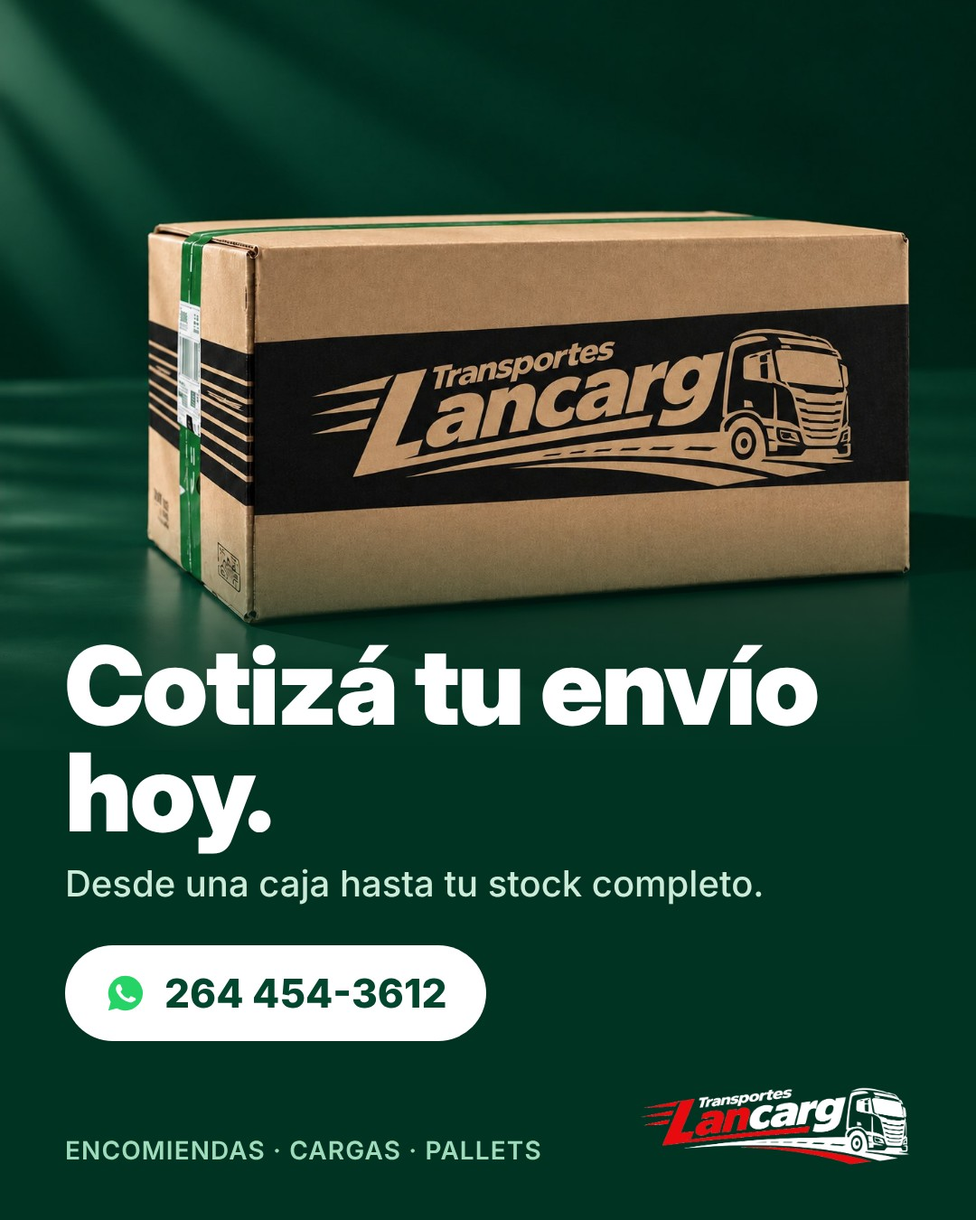
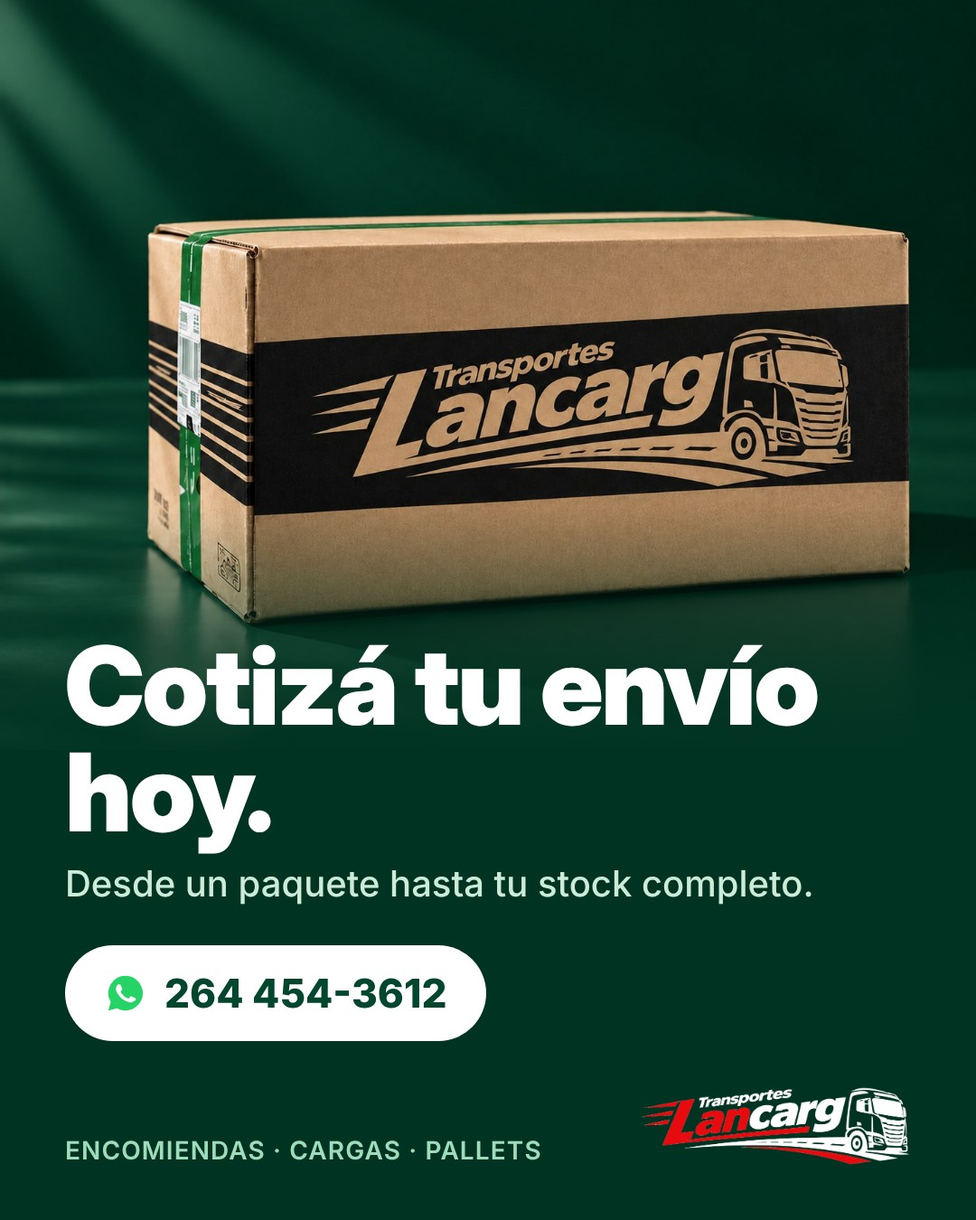
Paquete en vez de caja y camiones en plural
Claude-Session: https://claude.ai/code/session_01VCQyoaPqoNphJ14syEH6Au

Changed region(s): [[0.2444, 0.7156, 0.825, 0.7467]]

diff --git a/publicaciones/2026-10-26-carrusel-sucursales/diseno.html b/publicaciones/2026-10-26-carrusel-sucursales/diseno.html
@@ -34,4 +34,4 @@ h2{font-family:"Inter Display",Inter;font-weight:900;font-size:76px;line-height:
 .card .p{font-size:36px;font-weight:700;margin-top:10px;display:flex;align-items:center;gap:12px}
 .mr{display:flex;gap:30px;align-items:flex-start}
 .mito{font-size:44px;font-weight:800;color:#ffb3b5}
-</style></head><body><div class="slide feed"><img class="bg" src="../../fotos/frente-deposito-bsas-en-el-ctc-de-villa-soldati.jpg" style="object-position:50% 50%"><div class="shade "></div><img class="logo" src="../../marca/logo-lancarg-sobre-verde.png"><div class="txt " style="bottom:150px"><div class="kicker">Estamos cerca</div><h1>5 sucursales para <em>tus envíos</em>.</h1><div class="sub">Deslizá y encontrá la tuya →</div></div><div class="bar"><span><b>Camión</b> todos los días</span><span>·</span><span><b>Carga</b> asegurada</span><span>·</span><span><b>Entrega</b> en destino</span></div></div><div class="slide feed" style="background:var(--g)"><img class="logo" src="../../marca/logo-lancarg-sobre-verde.png"><div class="txt top" style="top:190px"><h2 style="font-size:84px">Nuestras sucursales</h2><div class="card" style="padding:28px 34px;margin-top:20px"><div class="mr"><div style="flex:1"><div class="t" style="font-size:44px">San Juan</div><div class="d" style="font-size:32px">Ruta 40 545 Norte, Chimbas</div></div><div class="p" style="font-size:38px;margin-top:6px"><svg width="40" height="40" viewBox="0 0 24 24" fill="#25D366"><path d="M12 2a10 10 0 0 0-8.6 15.1L2 22l5-1.3A10 10 0 1 0 12 2zm5.3 14.1c-.2.6-1.3 1.2-1.8 1.2-.5.1-1 .2-3.3-.7-2.8-1.1-4.5-4-4.7-4.2-.1-.2-1.1-1.5-1.1-2.9s.7-2 1-2.3c.2-.3.5-.3.7-.3h.5c.2 0 .4 0 .6.5l.8 2c.1.2.1.4 0 .5l-.3.5-.4.4c-.1.1-.3.3-.1.6.2.3.8 1.3 1.7 2.1 1.2 1 2.1 1.4 2.4 1.5.3.1.5.1.6-.1l.9-1c.2-.3.4-.2.6-.1l1.9.9c.3.1.5.2.5.3.1.2.1.7-.1 1.4z"/></svg>264 454-3612</div></div></div><div class="card" style="padding:28px 34px;margin-top:20px"><div class="mr"><div style="flex:1"><div class="t" style="font-size:44px">Mendoza</div><div class="d" style="font-size:32px">Mitre 2671, Guaymallén</div></div><div class="p" style="font-size:38px;margin-top:6px"><svg width="40" height="40" viewBox="0 0 24 24" fill="#25D366"><path d="M12 2a10 10 0 0 0-8.6 15.1L2 22l5-1.3A10 10 0 1 0 12 2zm5.3 14.1c-.2.6-1.3 1.2-1.8 1.2-.5.1-1 .2-3.3-.7-2.8-1.1-4.5-4-4.7-4.2-.1-.2-1.1-1.5-1.1-2.9s.7-2 1-2.3c.2-.3.5-.3.7-.3h.5c.2 0 .4 0 .6.5l.8 2c.1.2.1.4 0 .5l-.3.5-.4.4c-.1.1-.3.3-.1.6.2.3.8 1.3 1.7 2.1 1.2 1 2.1 1.4 2.4 1.5.3.1.5.1.6-.1l.9-1c.2-.3.4-.2.6-.1l1.9.9c.3.1.5.2.5.3.1.2.1.7-.1 1.4z"/></svg>261 240-6204</div></div></div><div class="card" style="padding:28px 34px;margin-top:20px"><div class="mr"><div style="flex:1"><div class="t" style="font-size:44px">Buenos Aires</div><div class="d" style="font-size:32px">Pergamino 3751, C.T.C. Villa Soldati</div></div><div class="p" style="font-size:38px;margin-top:6px"><svg width="40" height="40" viewBox="0 0 24 24" fill="#25D366"><path d="M12 2a10 10 0 0 0-8.6 15.1L2 22l5-1.3A10 10 0 1 0 12 2zm5.3 14.1c-.2.6-1.3 1.2-1.8 1.2-.5.1-1 .2-3.3-.7-2.8-1.1-4.5-4-4.7-4.2-.1-.2-1.1-1.5-1.1-2.9s.7-2 1-2.3c.2-.3.5-.3.7-.3h.5c.2 0 .4 0 .6.5l.8 2c.1.2.1.4 0 .5l-.3.5-.4.4c-.1.1-.3.3-.1.6.2.3.8 1.3 1.7 2.1 1.2 1 2.1 1.4 2.4 1.5.3.1.5.1.6-.1l.9-1c.2-.3.4-.2.6-.1l1.9.9c.3.1.5.2.5.3.1.2.1.7-.1 1.4z"/></svg>11 3779-5919</div></div></div><div class="card" style="padding:28px 34px;margin-top:20px"><div class="mr"><div style="flex:1"><div class="t" style="font-size:44px">Córdoba</div><div class="d" style="font-size:32px">La Cordillera 3774</div></div></div></div><div class="card" style="padding:28px 34px;margin-top:20px"><div class="mr"><div style="flex:1"><div class="t" style="font-size:44px">Rosario</div><div class="d" style="font-size:32px">Río de Janeiro 2510</div></div><div class="p" style="font-size:38px;margin-top:6px"><svg width="40" height="40" viewBox="0 0 24 24" fill="#25D366"><path d="M12 2a10 10 0 0 0-8.6 15.1L2 22l5-1.3A10 10 0 1 0 12 2zm5.3 14.1c-.2.6-1.3 1.2-1.8 1.2-.5.1-1 .2-3.3-.7-2.8-1.1-4.5-4-4.7-4.2-.1-.2-1.1-1.5-1.1-2.9s.7-2 1-2.3c.2-.3.5-.3.7-.3h.5c.2 0 .4 0 .6.5l.8 2c.1.2.1.4 0 .5l-.3.5-.4.4c-.1.1-.3.3-.1.6.2.3.8 1.3 1.7 2.1 1.2 1 2.1 1.4 2.4 1.5.3.1.5.1.6-.1l.9-1c.2-.3.4-.2.6-.1l1.9.9c.3.1.5.2.5.3.1.2.1.7-.1 1.4z"/></svg>341 364-0498</div></div></div></div></div></body></html>
+</style></head><body><div class="slide feed"><img class="bg" src="../../fotos/frente-deposito-bsas-en-el-ctc-de-villa-soldati.jpg" style="object-position:50% 50%"><div class="shade "></div><img class="logo" src="../../marca/logo-lancarg-sobre-verde.png"><div class="txt " style="bottom:150px"><div class="kicker">Estamos cerca</div><h1>5 sucursales para <em>tus envíos</em>.</h1><div class="sub">Deslizá y encontrá la tuya →</div></div><div class="bar"><span><b>Camiones</b> todos los días</span><span>·</span><span><b>Carga</b> asegurada</span><span>·</span><span><b>Entrega</b> en destino</span></div></div><div class="slide feed" style="background:var(--g)"><img class="logo" src="../../marca/logo-lancarg-sobre-verde.png"><div class="txt top" style="top:190px"><h2 style="font-size:84px">Nuestras sucursales</h2><div class="card" style="padding:28px 34px;margin-top:20px"><div class="mr"><div style="flex:1"><div class="t" style="font-size:44px">San Juan</div><div class="d" style="font-size:32px">Ruta 40 545 Norte, Chimbas</div></div><div class="p" style="font-size:38px;margin-top:6px"><svg width="40" height="40" viewBox="0 0 24 24" fill="#25D366"><path d="M12 2a10 10 0 0 0-8.6 15.1L2 22l5-1.3A10 10 0 1 0 12 2zm5.3 14.1c-.2.6-1.3 1.2-1.8 1.2-.5.1-1 .2-3.3-.7-2.8-1.1-4.5-4-4.7-4.2-.1-.2-1.1-1.5-1.1-2.9s.7-2 1-2.3c.2-.3.5-.3.7-.3h.5c.2 0 .4 0 .6.5l.8 2c.1.2.1.4 0 .5l-.3.5-.4.4c-.1.1-.3.3-.1.6.2.3.8 1.3 1.7 2.1 1.2 1 2.1 1.4 2.4 1.5.3.1.5.1.6-.1l.9-1c.2-.3.4-.2.6-.1l1.9.9c.3.1.5.2.5.3.1.2.1.7-.1 1.4z"/></svg>264 454-3612</div></div></div><div class="card" style="padding:28px 34px;margin-top:20px"><div class="mr"><div style="flex:1"><div class="t" style="font-size:44px">Mendoza</div><div class="d" style="font-size:32px">Mitre 2671, Guaymallén</div></div><div class="p" style="font-size:38px;margin-top:6px"><svg width="40" height="40" viewBox="0 0 24 24" fill="#25D366"><path d="M12 2a10 10 0 0 0-8.6 15.1L2 22l5-1.3A10 10 0 1 0 12 2zm5.3 14.1c-.2.6-1.3 1.2-1.8 1.2-.5.1-1 .2-3.3-.7-2.8-1.1-4.5-4-4.7-4.2-.1-.2-1.1-1.5-1.1-2.9s.7-2 1-2.3c.2-.3.5-.3.7-.3h.5c.2 0 .4 0 .6.5l.8 2c.1.2.1.4 0 .5l-.3.5-.4.4c-.1.1-.3.3-.1.6.2.3.8 1.3 1.7 2.1 1.2 1 2.1 1.4 2.4 1.5.3.1.5.1.6-.1l.9-1c.2-.3.4-.2.6-.1l1.9.9c.3.1.5.2.5.3.1.2.1.7-.1 1.4z"/></svg>261 240-6204</div></div></div><div class="card" style="padding:28px 34px;margin-top:20px"><div class="mr"><div style="flex:1"><div class="t" style="font-size:44px">Buenos Aires</div><div class="d" style="font-size:32px">Pergamino 3751, C.T.C. Villa Soldati</div></div><div class="p" style="font-size:38px;margin-top:6px"><svg width="40" height="40" viewBox="0 0 24 24" fill="#25D366"><path d="M12 2a10 10 0 0 0-8.6 15.1L2 22l5-1.3A10 10 0 1 0 12 2zm5.3 14.1c-.2.6-1.3 1.2-1.8 1.2-.5.1-1 .2-3.3-.7-2.8-1.1-4.5-4-4.7-4.2-.1-.2-1.1-1.5-1.1-2.9s.7-2 1-2.3c.2-.3.5-.3.7-.3h.5c.2 0 .4 0 .6.5l.8 2c.1.2.1.4 0 .5l-.3.5-.4.4c-.1.1-.3.3-.1.6.2.3.8 1.3 1.7 2.1 1.2 1 2.1 1.4 2.4 1.5.3.1.5.1.6-.1l.9-1c.2-.3.4-.2.6-.1l1.9.9c.3.1.5.2.5.3.1.2.1.7-.1 1.4z"/></svg>11 3779-5919</div></div></div><div class="card" style="padding:28px 34px;margin-top:20px"><div class="mr"><div style="flex:1"><div class="t" style="font-size:44px">Córdoba</div><div class="d" style="font-size:32px">La Cordillera 3774</div></div></div></div><div class="card" style="padding:28px 34px;margin-top:20px"><div class="mr"><div style="flex:1"><div class="t" style="font-size:44px">Rosario</div><div class="d" style="font-size:32px">Río de Janeiro 2510</div></div><div class="p" style="font-size:38px;margin-top:6px"><svg width="40" height="40" viewBox="0 0 24 24" fill="#25D366"><path d="M12 2a10 10 0 0 0-8.6 15.1L2 22l5-1.3A10 10 0 1 0 12 2zm5.3 14.1c-.2.6-1.3 1.2-1.8 1.2-.5.1-1 .2-3.3-.7-2.8-1.1-4.5-4-4.7-4.2-.1-.2-1.1-1.5-1.1-2.9s.7-2 1-2.3c.2-.3.5-.3.7-.3h.5c.2 0 .4 0 .6.5l.8 2c.1.2.1.4 0 .5l-.3.5-.4.4c-.1.1-.3.3-.1.6.2.3.8 1.3 1.7 2.1 1.2 1 2.1 1.4 2.4 1.5.3.1.5.1.6-.1l.9-1c.2-.3.4-.2.6-.1l1.9.9c.3.1.5.2.5.3.1.2.1.7-.1 1.4z"/></svg>341 364-0498</div></div></div></div></div></body></html>

diff --git a/publicaciones/2026-10-23-carrusel-viaje-de-tu-caja/diseno.html b/publicaciones/2026-10-23-carrusel-viaje-de-tu-caja/diseno.html
@@ -34,4 +34,4 @@ h2{font-family:"Inter Display",Inter;font-weight:900;font-size:76px;line-height:
 .card .p{font-size:36px;font-weight:700;margin-top:10px;display:flex;align-items:center;gap:12px}
 .mr{display:flex;gap:30px;align-items:flex-start}
 .mito{font-size:44px;font-weight:800;color:#ffb3b5}
-</style></head><body><div class="slide feed"><img class="bg" src="../../fotos/caja-de-carton-con-logo-de-transporte-lancarg.jpg" style="object-position:50% 45%;object-fit:contain;object-position:50% 14%"><div class="shade "></div><img class="logo" src="../../marca/logo-lancarg-sobre-verde.png"><div class="txt " style="bottom:150px"><div class="kicker">Paso a paso</div><h1>El viaje de <em>tu caja</em>.</h1><div class="sub">De Buenos Aires a tu puerta en San Juan. Deslizá →</div></div><div class="bar"><span><b>Camión</b> todos los días</span><span>·</span><span><b>Carga</b> asegurada</span><span>·</span><span><b>Entrega</b> en destino</span></div></div><div class="slide feed"><img class="bg" src="../../fotos/deposito-bsas-con-cajas.jpg" style="object-position:50% 50%"><div class="shade "></div><img class="logo" src="../../marca/logo-lancarg-sobre-verde.png"><div class="step">1/4</div><div class="txt " style="bottom:150px"><div class="num">1</div><h2>Recepción</h2><div class="sub">La dejás en nuestras receptorías o te la retiramos.</div></div><div class="bar"><span><b>Camión</b> todos los días</span><span>·</span><span><b>Carga</b> asegurada</span><span>·</span><span><b>Entrega</b> en destino</span></div></div><div class="slide feed"><img class="bg" src="../../fotos/empleados-descargando-un-camion.jpg" style="object-position:50% 50%"><div class="shade "></div><img class="logo" src="../../marca/logo-lancarg-sobre-verde.png"><div class="step">2/4</div><div class="txt " style="bottom:150px"><div class="num">2</div><h2>Carga</h2><div class="sub">La clasificamos y la cargamos con cuidado.</div></div><div class="bar"><span><b>Camión</b> todos los días</span><span>·</span><span><b>Carga</b> asegurada</span><span>·</span><span><b>Entrega</b> en destino</span></div></div><div class="slide feed"><img class="bg" src="../../fotos/camion-scania-lancarg-en-el-playon-unerquicklich.jpg" style="object-position:50% 50%"><div class="shade "></div><img class="logo" src="../../marca/logo-lancarg-sobre-verde.png"><div class="step">3/4</div><div class="txt " style="bottom:150px"><div class="num">3</div><h2>Viaje</h2><div class="sub">Sale en camión propio. Hay camión todos los días.</div></div><div class="bar"><span><b>Camión</b> todos los días</span><span>·</span><span><b>Carga</b> asegurada</span><span>·</span><span><b>Entrega</b> en destino</span></div></div><div class="slide feed"><img class="bg" src="../../fotos/hombre-entregando-caja-con-logo-de-lancarg-a-mujer.jpg" style="object-position:40% 40%"><div class="shade "></div><img class="logo" src="../../marca/logo-lancarg-sobre-verde.png"><div class="step">4/4</div><div class="txt " style="bottom:150px"><div class="num">4</div><h2>Entrega</h2><div class="sub">Llega a destino y te la entregamos.</div><div class="pill"><svg width="48" height="48" viewBox="0 0 24 24" fill="#25D366"><path d="M12 2a10 10 0 0 0-8.6 15.1L2 22l5-1.3A10 10 0 1 0 12 2zm5.3 14.1c-.2.6-1.3 1.2-1.8 1.2-.5.1-1 .2-3.3-.7-2.8-1.1-4.5-4-4.7-4.2-.1-.2-1.1-1.5-1.1-2.9s.7-2 1-2.3c.2-.3.5-.3.7-.3h.5c.2 0 .4 0 .6.5l.8 2c.1.2.1.4 0 .5l-.3.5-.4.4c-.1.1-.3.3-.1.6.2.3.8 1.3 1.7 2.1 1.2 1 2.1 1.4 2.4 1.5.3.1.5.1.6-.1l.9-1c.2-.3.4-.2.6-.1l1.9.9c.3.1.5.2.5.3.1.2.1.7-.1 1.4z"/></svg>264 454-3612</div></div><div class="bar"><span><b>Camión</b> todos los días</span><span>·</span><span><b>Carga</b> asegurada</span><span>·</span><span><b>Entrega</b> en destino</span></div></div></body></html>
+</style></head><body><div class="slide feed"><img class="bg" src="../../fotos/caja-de-carton-con-logo-de-transporte-lancarg.jpg" style="object-position:50% 45%;object-fit:contain;object-position:50% 14%"><div class="shade "></div><img class="logo" src="../../marca/logo-lancarg-sobre-verde.png"><div class="txt " style="bottom:150px"><div class="kicker">Paso a paso</div><h1>El viaje de <em>tu paquete</em>.</h1><div class="sub">De Buenos Aires a tu puerta en San Juan. Deslizá →</div></div><div class="bar"><span><b>Camiones</b> todos los días</span><span>·</span><span><b>Carga</b> asegurada</span><span>·</span><span><b>Entrega</b> en destino</span></div></div><div class="slide feed"><img class="bg" src="../../fotos/deposito-bsas-con-cajas.jpg" style="object-position:50% 50%"><div class="shade "></div><img class="logo" src="../../marca/logo-lancarg-sobre-verde.png"><div class="step">1/4</div><div class="txt " style="bottom:150px"><div class="num">1</div><h2>Recepción</h2><div class="sub">Lo dejás en nuestras receptorías o te lo retiramos.</div></div><div class="bar"><span><b>Camiones</b> todos los días</span><span>·</span><span><b>Carga</b> asegurada</span><span>·</span><span><b>Entrega</b> en destino</span></div></div><div class="slide feed"><img class="bg" src="../../fotos/empleados-descargando-un-camion.jpg" style="object-position:50% 50%"><div class="shade "></div><img class="logo" src="../../marca/logo-lancarg-sobre-verde.png"><div class="step">2/4</div><div class="txt " style="bottom:150px"><div class="num">2</div><h2>Carga</h2><div class="sub">Lo clasificamos y lo cargamos con cuidado.</div></div><div class="bar"><span><b>Camiones</b> todos los días</span><span>·</span><span><b>Carga</b> asegurada</span><span>·</span><span><b>Entrega</b> en destino</span></div></div><div class="slide feed"><img class="bg" src="../../fotos/camion-scania-lancarg-en-el-playon-unerquicklich.jpg" style="object-position:50% 50%"><div class="shade "></div><img class="logo" src="../../marca/logo-lancarg-sobre-verde.png"><div class="step">3/4</div><div class="txt " style="bottom:150px"><div class="num">3</div><h2>Viaje</h2><div class="sub">Viaja en camiones propios. Salen camiones todos los días.</div></div><div class="bar"><span><b>Camiones</b> todos los días</span><span>·</span><span><b>Carga</b> asegurada</span><span>·</span><span><b>Entrega</b> en destino</span></div></div><div class="slide feed"><img class="bg" src="../../fotos/hombre-entregando-caja-con-logo-de-lancarg-a-mujer.jpg" style="object-position:40% 40%"><div class="shade "></div><img class="logo" src="../../marca/logo-lancarg-sobre-verde.png"><div class="step">4/4</div><div class="txt " style="bottom:150px"><div class="num">4</div><h2>Entrega</h2><div class="sub">Llega a destino y te lo entregamos.</div><div class="pill"><svg width="48" height="48" viewBox="0 0 24 24" fill="#25D366"><path d="M12 2a10 10 0 0 0-8.6 15.1L2 22l5-1.3A10 10 0 1 0 12 2zm5.3 14.1c-.2.6-1.3 1.2-1.8 1.2-.5.1-1 .2-3.3-.7-2.8-1.1-4.5-4-4.7-4.2-.1-.2-1.1-1.5-1.1-2.9s.7-2 1-2.3c.2-.3.5-.3.7-.3h.5c.2 0 .4 0 .6.5l.8 2c.1.2.1.4 0 .5l-.3.5-.4.4c-.1.1-.3.3-.1.6.2.3.8 1.3 1.7 2.1 1.2 1 2.1 1.4 2.4 1.5.3.1.5.1.6-.1l.9-1c.2-.3.4-.2.6-.1l1.9.9c.3.1.5.2.5.3.1.2.1.7-.1 1.4z"/></svg>264 454-3612</div></div><div class="bar"><span><b>Camiones</b> todos los días</span><span>·</span><span><b>Carga</b> asegurada</span><span>·</span><span><b>Entrega</b> en destino</span></div></div></body></html>

diff --git a/publicaciones/2026-10-20-historias/diseno.html b/publicaciones/2026-10-20-historias/diseno.html
@@ -34,4 +34,4 @@ h2{font-family:"Inter Display",Inter;font-weight:900;font-size:76px;line-height:
 .card .p{font-size:36px;font-weight:700;margin-top:10px;display:flex;align-items:center;gap:12px}
 .mr{display:flex;gap:30px;align-items:flex-start}
 .mito{font-size:44px;font-weight:800;color:#ffb3b5}
-</style></head><body><div class="slide story"><img class="bg" src="../../fotos/camion-scania-al-atardecer-entre-montanas.jpg" style="object-position:50% 40%"><div class="shade "></div><img class="logo" src="../../marca/logo-lancarg-sobre-verde.png"><div class="txt "><div class="kicker">Buenos Aires → San Juan</div><h1>Camión <em>todos</em> los días.</h1><div class="sub">Tu mercadería no espera.</div></div></div><div class="slide story"><img class="bg" src="../../fotos/caja-de-carton-con-logo-de-transporte-lancarg.jpg" style="object-position:50% 45%;object-fit:contain;object-position:50% 14%"><div class="shade "></div><img class="logo" src="../../marca/logo-lancarg-sobre-verde.png"><div class="txt "><h1>¿Tenés que traer una caja?</h1><div class="sub">Cotizá en minutos por WhatsApp.</div><div class="pill"><svg width="48" height="48" viewBox="0 0 24 24" fill="#25D366"><path d="M12 2a10 10 0 0 0-8.6 15.1L2 22l5-1.3A10 10 0 1 0 12 2zm5.3 14.1c-.2.6-1.3 1.2-1.8 1.2-.5.1-1 .2-3.3-.7-2.8-1.1-4.5-4-4.7-4.2-.1-.2-1.1-1.5-1.1-2.9s.7-2 1-2.3c.2-.3.5-.3.7-.3h.5c.2 0 .4 0 .6.5l.8 2c.1.2.1.4 0 .5l-.3.5-.4.4c-.1.1-.3.3-.1.6.2.3.8 1.3 1.7 2.1 1.2 1 2.1 1.4 2.4 1.5.3.1.5.1.6-.1l.9-1c.2-.3.4-.2.6-.1l1.9.9c.3.1.5.2.5.3.1.2.1.7-.1 1.4z"/></svg>264 454-3612</div></div></div></body></html>
+</style></head><body><div class="slide story"><img class="bg" src="../../fotos/camion-scania-al-atardecer-entre-montanas.jpg" style="object-position:50% 40%"><div class="shade "></div><img class="logo" src="../../marca/logo-lancarg-sobre-verde.png"><div class="txt "><div class="kicker">Buenos Aires → San Juan</div><h1>Camiones <em>todos</em> los días.</h1><div class="sub">Tu mercadería no espera.</div></div></div><div class="slide story"><img class="bg" src="../../fotos/caja-de-carton-con-logo-de-transporte-lancarg.jpg" style="object-position:50% 45%;object-fit:contain;object-position:50% 14%"><div class="shade "></div><img class="logo" src="../../marca/logo-lancarg-sobre-verde.png"><div class="txt "><h1>¿Tenés que traer un paquete?</h1><div class="sub">Cotizá en minutos por WhatsApp.</div><div class="pill"><svg width="48" height="48" viewBox="0 0 24 24" fill="#25D366"><path d="M12 2a10 10 0 0 0-8.6 15.1L2 22l5-1.3A10 10 0 1 0 12 2zm5.3 14.1c-.2.6-1.3 1.2-1.8 1.2-.5.1-1 .2-3.3-.7-2.8-1.1-4.5-4-4.7-4.2-.1-.2-1.1-1.5-1.1-2.9s.7-2 1-2.3c.2-.3.5-.3.7-.3h.5c.2 0 .4 0 .6.5l.8 2c.1.2.1.4 0 .5l-.3.5-.4.4c-.1.1-.3.3-.1.6.2.3.8 1.3 1.7 2.1 1.2 1 2.1 1.4 2.4 1.5.3.1.5.1.6-.1l.9-1c.2-.3.4-.2.6-.1l1.9.9c.3.1.5.2.5.3.1.2.1.7-.1 1.4z"/></svg>264 454-3612</div></div></div></body></html>

diff --git a/publicaciones/2026-10-24-historias/diseno.html b/publicaciones/2026-10-24-historias/diseno.html
@@ -34,4 +34,4 @@ h2{font-family:"Inter Display",Inter;font-weight:900;font-size:76px;line-height:
 .card .p{font-size:36px;font-weight:700;margin-top:10px;display:flex;align-items:center;gap:12px}
 .mr{display:flex;gap:30px;align-items:flex-start}
 .mito{font-size:44px;font-weight:800;color:#ffb3b5}
-</style></head><body><div class="slide story"><img class="bg" src="../../fotos/muestrario-de-cajas-con-el-logo-transportes-lancarg.jpg" style="object-position:50% 50%;object-fit:contain;object-position:50% 14%"><div class="shade "></div><img class="logo" src="../../marca/logo-lancarg-sobre-verde.png"><div class="txt "><div class="kicker">Tip de envío</div><h2>Cómo embalar bien tu caja</h2><div class="list"><div class="li"><span class="dot">1</span>Caja firme, sin huecos adentro</div><div class="li"><span class="dot">2</span>Cinta en forma de H</div><div class="li"><span class="dot">3</span>Datos de destino bien visibles</div></div></div></div><div class="slide story"><img class="bg" src="../../fotos/camiondecostadocerca.jpg" style="object-position:50% 50%"><div class="shade "></div><img class="logo" src="../../marca/logo-lancarg-sobre-verde.png"><div class="txt "><div class="kicker">Nuestro corredor</div><h1>Buenos Aires, Córdoba y Rosario → <em>San Juan y Mendoza</em>.</h1></div></div></body></html>
+</style></head><body><div class="slide story"><img class="bg" src="../../fotos/muestrario-de-cajas-con-el-logo-transportes-lancarg.jpg" style="object-position:50% 50%;object-fit:contain;object-position:50% 14%"><div class="shade "></div><img class="logo" src="../../marca/logo-lancarg-sobre-verde.png"><div class="txt "><div class="kicker">Tip de envío</div><h2>Cómo embalar bien tu paquete</h2><div class="list"><div class="li"><span class="dot">1</span>Embalaje firme, sin huecos adentro</div><div class="li"><span class="dot">2</span>Cinta en forma de H</div><div class="li"><span class="dot">3</span>Datos de destino bien visibles</div></div></div></div><div class="slide story"><img class="bg" src="../../fotos/camiondecostadocerca.jpg" style="object-position:50% 50%"><div class="shade "></div><img class="logo" src="../../marca/logo-lancarg-sobre-verde.png"><div class="txt "><div class="kicker">Nuestro corredor</div><h1>Buenos Aires, Córdoba y Rosario → <em>San Juan y Mendoza</em>.</h1></div></div></body></html>

diff --git a/publicaciones/2026-10-21-carrusel-traer-cajas/diseno.html b/publicaciones/2026-10-21-carrusel-traer-cajas/diseno.html
@@ -48,8 +48,8 @@ h1 em{font-style:normal;color:#7fd3a6}
   <img class="logo" src="../../marca/logo-lancarg-sobre-verde.png">
   <div class="txt">
     <div class="kicker">Buenos Aires → San Juan</div>
-    <h1>¿Tenés que traer <em>tus cajas?</em></h1>
-    <div class="sub"><span class="arrow">→</span>Nosotros la llevamos.</div>
+    <h1>¿Tenés que traer <em>tus paquetes?</em></h1>
+    <div class="sub"><span class="arrow">→</span>Nosotros los llevamos.</div>
   </div>
 </div>
 
@@ -58,7 +58,7 @@ h1 em{font-style:normal;color:#7fd3a6}
   <div class="txt">
     <div class="year"><small>En la ruta desde</small>1957</div>
     <div class="list">
-      <div class="li"><span class="dot">✓</span>Camión todos los días</div>
+      <div class="li"><span class="dot">✓</span>Camiones todos los días</div>
       <div class="li"><span class="dot">✓</span>Retiro a domicilio y entrega en destino</div>
       <div class="li"><span class="dot">✓</span>Carga asegurada</div>
     </div>
@@ -70,7 +70,7 @@ h1 em{font-style:normal;color:#7fd3a6}
   <img class="bg" src="../../fotos/caja-de-carton-con-logo-de-transporte-lancarg.jpg">
   <div class="fade"></div>
   <div class="txt">
-    <h1>Cotizá tu envío hoy.</h1><div style="font-size:40px;font-weight:500;margin-top:18px;color:#cdebd9">Desde una caja hasta tu stock completo.</div>
+    <h1>Cotizá tu envío hoy.</h1><div style="font-size:40px;font-weight:500;margin-top:18px;color:#cdebd9">Desde un paquete hasta tu stock completo.</div>
     <div class="cta"><svg width="46" height="46" viewBox="0 0 24 24" fill="#25D366"><path d="M12 2a10 10 0 0 0-8.6 15.1L2 22l5-1.3A10 10 0 1 0 12 2zm5.3 14.1c-.2.6-1.3 1.2-1.8 1.2-.5.1-1 .2-3.3-.7-2.8-1.1-4.5-4-4.7-4.2-.1-.2-1.1-1.5-1.1-2.9s.7-2 1-2.3c.2-.3.5-.3.7-.3h.5c.2 0 .4 0 .6.5l.8 2c.1.2.1.4 0 .5l-.3.5-.4.4c-.1.1-.3.3-.1.6.2.3.8 1.3 1.7 2.1 1.2 1 2.1 1.4 2.4 1.5.3.1.5.1.6-.1l.9-1c.2-.3.4-.2.6-.1l1.9.9c.3.1.5.2.5.3.1.2.1.7-.1 1.4z"/></svg>264 454-3612</div>
   </div>
   <div class="foot"><span>ENCOMIENDAS · CARGAS · PALLETS</span><img src="../../marca/logo-lancarg-sobre-verde.png"></div>

diff --git a/publicaciones/2026-10-22-historias/diseno.html b/publicaciones/2026-10-22-historias/diseno.html
@@ -34,4 +34,4 @@ h2{font-family:"Inter Display",Inter;font-weight:900;font-size:76px;line-height:
 .card .p{font-size:36px;font-weight:700;margin-top:10px;display:flex;align-items:center;gap:12px}
 .mr{display:flex;gap:30px;align-items:flex-start}
 .mito{font-size:44px;font-weight:800;color:#ffb3b5}
-</style></head><body><div class="slide story"><img class="bg" src="../../fotos/muestrario-de-cajas-con-el-logo-transportes-lancarg.jpg" style="object-position:50% 50%;object-fit:contain;object-position:50% 14%"><div class="shade "></div><img class="logo" src="../../marca/logo-lancarg-sobre-verde.png"><div class="txt "><div class="mito">✕ Mito: "Solo llevan cargas grandes".</div><h1 style="margin-top:30px">Realidad: <em>una sola caja</em> también viaja.</h1></div></div><div class="slide story"><img class="bg" src="../../fotos/camion-con-carga-paletizada-y-lona-verde.jpg" style="object-position:50% 50%"><div class="shade "></div><img class="logo" src="../../marca/logo-lancarg-sobre-verde.png"><div class="txt "><h1>Tu carga, <em>asegurada</em>.</h1><div class="sub">De punta a punta del viaje.</div></div></div></body></html>
+</style></head><body><div class="slide story"><img class="bg" src="../../fotos/muestrario-de-cajas-con-el-logo-transportes-lancarg.jpg" style="object-position:50% 50%;object-fit:contain;object-position:50% 14%"><div class="shade "></div><img class="logo" src="../../marca/logo-lancarg-sobre-verde.png"><div class="txt "><div class="mito">✕ Mito: "Solo llevan cargas grandes".</div><h1 style="margin-top:30px">Realidad: <em>un solo paquete</em> también viaja.</h1></div></div><div class="slide story"><img class="bg" src="../../fotos/camion-con-carga-paletizada-y-lona-verde.jpg" style="object-position:50% 50%"><div class="shade "></div><img class="logo" src="../../marca/logo-lancarg-sobre-verde.png"><div class="txt "><h1>Tu carga, <em>asegurada</em>.</h1><div class="sub">De punta a punta del viaje.</div></div></div></body></html>

diff --git a/publicaciones/2026-10-25-desde-1957/diseno.html b/publicaciones/2026-10-25-desde-1957/diseno.html
@@ -34,4 +34,4 @@ h2{font-family:"Inter Display",Inter;font-weight:900;font-size:76px;line-height:
 .card .p{font-size:36px;font-weight:700;margin-top:10px;display:flex;align-items:center;gap:12px}
 .mr{display:flex;gap:30px;align-items:flex-start}
 .mito{font-size:44px;font-weight:800;color:#ffb3b5}
-</style></head><body><div class="slide feed"><img class="bg" src="../../fotos/camion-scania-al-atardecer-entre-montanas.jpg" style="object-position:50% 40%"><div class="shade "></div><img class="logo" src="../../marca/logo-lancarg-sobre-verde.png"><div class="txt " style="bottom:150px"><div class="kicker">Desde 1957</div><h1>Casi 70 años <em>en la ruta</em>.</h1><div class="sub">Gracias a cada cliente que nos confía su carga.</div></div><div class="bar"><span><b>Camión</b> todos los días</span><span>·</span><span><b>Carga</b> asegurada</span><span>·</span><span><b>Entrega</b> en destino</span></div></div></body></html>
+</style></head><body><div class="slide feed"><img class="bg" src="../../fotos/camion-scania-al-atardecer-entre-montanas.jpg" style="object-position:50% 40%"><div class="shade "></div><img class="logo" src="../../marca/logo-lancarg-sobre-verde.png"><div class="txt " style="bottom:150px"><div class="kicker">Desde 1957</div><h1>Casi 70 años <em>en la ruta</em>.</h1><div class="sub">Gracias a cada cliente que nos confía su carga.</div></div><div class="bar"><span><b>Camiones</b> todos los días</span><span>·</span><span><b>Carga</b> asegurada</span><span>·</span><span><b>Entrega</b> en destino</span></div></div></body></html>

diff --git a/plantillas/generar_semana_2026-10-20.py b/plantillas/generar_semana_2026-10-20.py
@@ -44,7 +44,7 @@ h2{font-family:"Inter Display",Inter;font-weight:900;font-size:76px;line-height:
 """
 
 WA = '<svg width="{s}" height="{s}" viewBox="0 0 24 24" fill="#25D366"><path d="M12 2a10 10 0 0 0-8.6 15.1L2 22l5-1.3A10 10 0 1 0 12 2zm5.3 14.1c-.2.6-1.3 1.2-1.8 1.2-.5.1-1 .2-3.3-.7-2.8-1.1-4.5-4-4.7-4.2-.1-.2-1.1-1.5-1.1-2.9s.7-2 1-2.3c.2-.3.5-.3.7-.3h.5c.2 0 .4 0 .6.5l.8 2c.1.2.1.4 0 .5l-.3.5-.4.4c-.1.1-.3.3-.1.6.2.3.8 1.3 1.7 2.1 1.2 1 2.1 1.4 2.4 1.5.3.1.5.1.6-.1l.9-1c.2-.3.4-.2.6-.1l1.9.9c.3.1.5.2.5.3.1.2.1.7-.1 1.4z"/></svg>'
-BAR = '<div class="bar"><span><b>Camión</b> todos los días</span><span>·</span><span><b>Carga</b> asegurada</span><span>·</span><span><b>Entrega</b> en destino</span></div>'
+BAR = '<div class="bar"><span><b>Camiones</b> todos los días</span><span>·</span><span><b>Carga</b> asegurada</span><span>·</span><span><b>Entrega</b> en destino</span></div>'
 WAPILL = '<div class="pill">' + WA.format(s=48) + '264 454-3612</div>'
 
 
@@ -74,15 +74,15 @@ def write(folder, slides):
 # ---------- HISTORIAS (2 por día) ----------
 H = {
  "2026-10-20-historias": [
-   story("camion-scania-al-atardecer-entre-montanas", '<div class="kicker">Buenos Aires → San Juan</div><h1>Camión <em>todos</em> los días.</h1><div class="sub">Tu mercadería no espera.</div>', "50% 40%"),
-   story("caja-de-carton-con-logo-de-transporte-lancarg", '<h1>¿Tenés que traer una caja?</h1><div class="sub">Cotizá en minutos por WhatsApp.</div>' + WAPILL, "50% 45%"),
+   story("camion-scania-al-atardecer-entre-montanas", '<div class="kicker">Buenos Aires → San Juan</div><h1>Camiones <em>todos</em> los días.</h1><div class="sub">Tu mercadería no espera.</div>', "50% 40%"),
+   story("caja-de-carton-con-logo-de-transporte-lancarg", '<h1>¿Tenés que traer un paquete?</h1><div class="sub">Cotizá en minutos por WhatsApp.</div>' + WAPILL, "50% 45%"),
  ],
  "2026-10-21-historias": [
    story("deposito-bsas-con-cajas", '<div class="kicker">Comercios</div><h1>¿Comprás en <em>Flores</em> u <em>Once</em>?</h1><div class="sub">Lo dejás en nuestras receptorías y te lo traemos a San Juan.</div>'),
    story("hombre-entregando-caja-con-logo-de-lancarg-a-mujer", '<h1>Retiramos y <em>entregamos</em>.</h1><div class="sub">Retiro a domicilio y última milla cubierta.</div>', "40% 50%"),
  ],
  "2026-10-22-historias": [
-   story("muestrario-de-cajas-con-el-logo-transportes-lancarg", '<div class="mito">✕ Mito: "Solo llevan cargas grandes".</div><h1 style="margin-top:30px">Realidad: <em>una sola caja</em> también viaja.</h1>', "50% 50%"),
+   story("muestrario-de-cajas-con-el-logo-transportes-lancarg", '<div class="mito">✕ Mito: "Solo llevan cargas grandes".</div><h1 style="margin-top:30px">Realidad: <em>un solo paquete</em> también viaja.</h1>', "50% 50%"),
    story("camion-con-carga-paletizada-y-lona-verde", '<h1>Tu carga, <em>asegurada</em>.</h1><div class="sub">De punta a punta del viaje.</div>', "50% 50%"),
  ],
  "2026-10-23-historias": [
@@ -90,7 +90,7 @@ H = {
    story("planchada-deposito-san-juan", '<h2>Sucursal San Juan</h2><div class="card"><div class="t">Ruta 40 545 Norte, Chimbas</div><div class="d">Lunes a viernes de 8 a 16 h · Sábados de 8 a 12:30 h</div><div class="p">' + WA.format(s=40) + '264 454-3612</div></div>', "50% 50%"),
  ],
  "2026-10-24-historias": [
-   story("muestrario-de-cajas-con-el-logo-transportes-lancarg", '<div class="kicker">Tip de envío</div><h2>Cómo embalar bien tu caja</h2><div class="list"><div class="li"><span class="dot">1</span>Caja firme, sin huecos adentro</div><div class="li"><span class="dot">2</span>Cinta en forma de H</div><div class="li"><span class="dot">3</span>Datos de destino bien visibles</div></div>', "50% 50%"),
+   story("muestrario-de-cajas-con-el-logo-transportes-lancarg", '<div class="kicker">Tip de envío</div><h2>Cómo embalar bien tu paquete</h2><div class="list"><div class="li"><span class="dot">1</span>Embalaje firme, sin huecos adentro</div><div class="li"><span class="dot">2</span>Cinta en forma de H</div><div class="li"><span class="dot">3</span>Datos de destino bien visibles</div></div>', "50% 50%"),
    story("camiondecostadocerca", '<div class="kicker">Nuestro corredor</div><h1>Buenos Aires, Córdoba y Rosario → <em>San Juan y Mendoza</em>.</h1>', "50% 50%"),
  ],
  "2026-10-25-historias": [
@@ -113,11 +113,11 @@ def feed(img, body, pos="50% 50%", shade="", step=None, bar=True, logo=True, top
 
 FEED = {
  "2026-10-23-carrusel-viaje-de-tu-caja": [
-   feed("caja-de-carton-con-logo-de-transporte-lancarg", '<div class="kicker">Paso a paso</div><h1>El viaje de <em>tu caja</em>.</h1><div class="sub">De Buenos Aires a tu puerta en San Juan. Deslizá →</div>', "50% 45%"),
-   feed("deposito-bsas-con-cajas", '<div class="num">1</div><h2>Recepción</h2><div class="sub">La dejás en nuestras receptorías o te la retiramos.</div>', step="1/4"),
-   feed("empleados-descargando-un-camion", '<div class="num">2</div><h2>Carga</h2><div class="sub">La clasificamos y la cargamos con cuidado.</div>', step="2/4"),
-   feed("camion-scania-lancarg-en-el-playon-unerquicklich", '<div class="num">3</div><h2>Viaje</h2><div class="sub">Sale en camión propio. Hay camión todos los días.</div>', step="3/4"),
-   feed("hombre-entregando-caja-con-logo-de-lancarg-a-mujer", '<div class="num">4</div><h2>Entrega</h2><div class="sub">Llega a destino y te la entregamos.</div>' + WAPILL, "40% 40%", step="4/4"),
+   feed("caja-de-carton-con-logo-de-transporte-lancarg", '<div class="kicker">Paso a paso</div><h1>El viaje de <em>tu paquete</em>.</h1><div class="sub">De Buenos Aires a tu puerta en San Juan. Deslizá →</div>', "50% 45%"),
+   feed("deposito-bsas-con-cajas", '<div class="num">1</div><h2>Recepción</h2><div class="sub">Lo dejás en nuestras receptorías o te lo retiramos.</div>', step="1/4"),
+   feed("empleados-descargando-un-camion", '<div class="num">2</div><h2>Carga</h2><div class="sub">Lo clasificamos y lo cargamos con cuidado.</div>', step="2/4"),
+   feed("camion-scania-lancarg-en-el-playon-unerquicklich", '<div class="num">3</div><h2>Viaje</h2><div class="sub">Viaja en camiones propios. Salen camiones todos los días.</div>', step="3/4"),
+   feed("hombre-entregando-caja-con-logo-de-lancarg-a-mujer", '<div class="num">4</div><h2>Entrega</h2><div class="sub">Llega a destino y te lo entregamos.</div>' + WAPILL, "40% 40%", step="4/4"),
  ],
  "2026-10-25-desde-1957": [
    feed("camion-scania-al-atardecer-entre-montanas", '<div class="kicker">Desde 1957</div><h1>Casi 70 años <em>en la ruta</em>.</h1><div class="sub">Gracias a cada cliente que nos confía su carga.</div>', "50% 40%"),

diff --git a/CLAUDE.md b/CLAUDE.md
@@ -10,6 +10,7 @@ Metricool descarga cada imagen desde su link "raw" de GitHub. Acá va SOLO conte
 - Logo: sobre fondo verde o foto usar `marca/logo-lancarg-sobre-verde.png` (rojo original + letras verdes pasadas a blanco,
   aprobado por Fran), sin recuadro, con sombra suave y con la parte de arriba de la foto oscurecida para que se lea.
   Sobre fondo blanco o claro, usar el logo original a color. No inventar otras versiones del logo.
+- Vocabulario: decir "paquete/paquetes", no "caja"; "camiones" en plural (ej. "Camiones todos los días").
 - Reglas que no se rompen: nunca mencionar la cantidad de camiones, no inventar reseñas, no copiar a la competencia,
   no usar Higgsfield ni generadores pagos.
 
